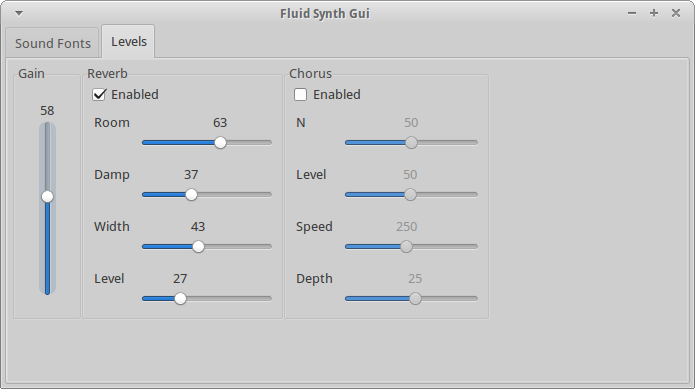
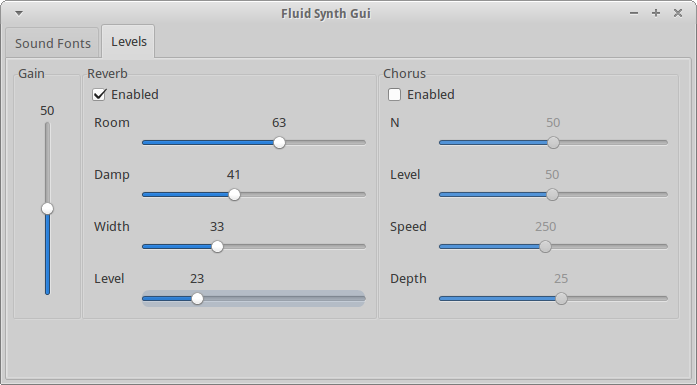
improve levels layout

diff --git a/fluidsynthgui.py b/fluidsynthgui.py
@@ -724,7 +724,7 @@ class FluidSynthGui(wx.Frame):
 		boxlabel= "Reverb"
 
 		flags = wx.ALIGN_CENTER_VERTICAL|wx.EXPAND|wx.ALL
-		sprop = 3 
+		sprop = 5 
 		box = wx.StaticBox(panel, -1, boxlabel)
 		sizer = wx.StaticBoxSizer(box, wx.VERTICAL)
 
@@ -784,7 +784,7 @@ class FluidSynthGui(wx.Frame):
 		boxlabel= "Chorus"
 
 		flags = wx.ALIGN_CENTER_VERTICAL|wx.EXPAND|wx.ALL
-		sprop = 3 
+		sprop = 5 
 		box = wx.StaticBox(panel, -1, boxlabel)
 		sizer = wx.StaticBoxSizer(box, wx.VERTICAL)
 
